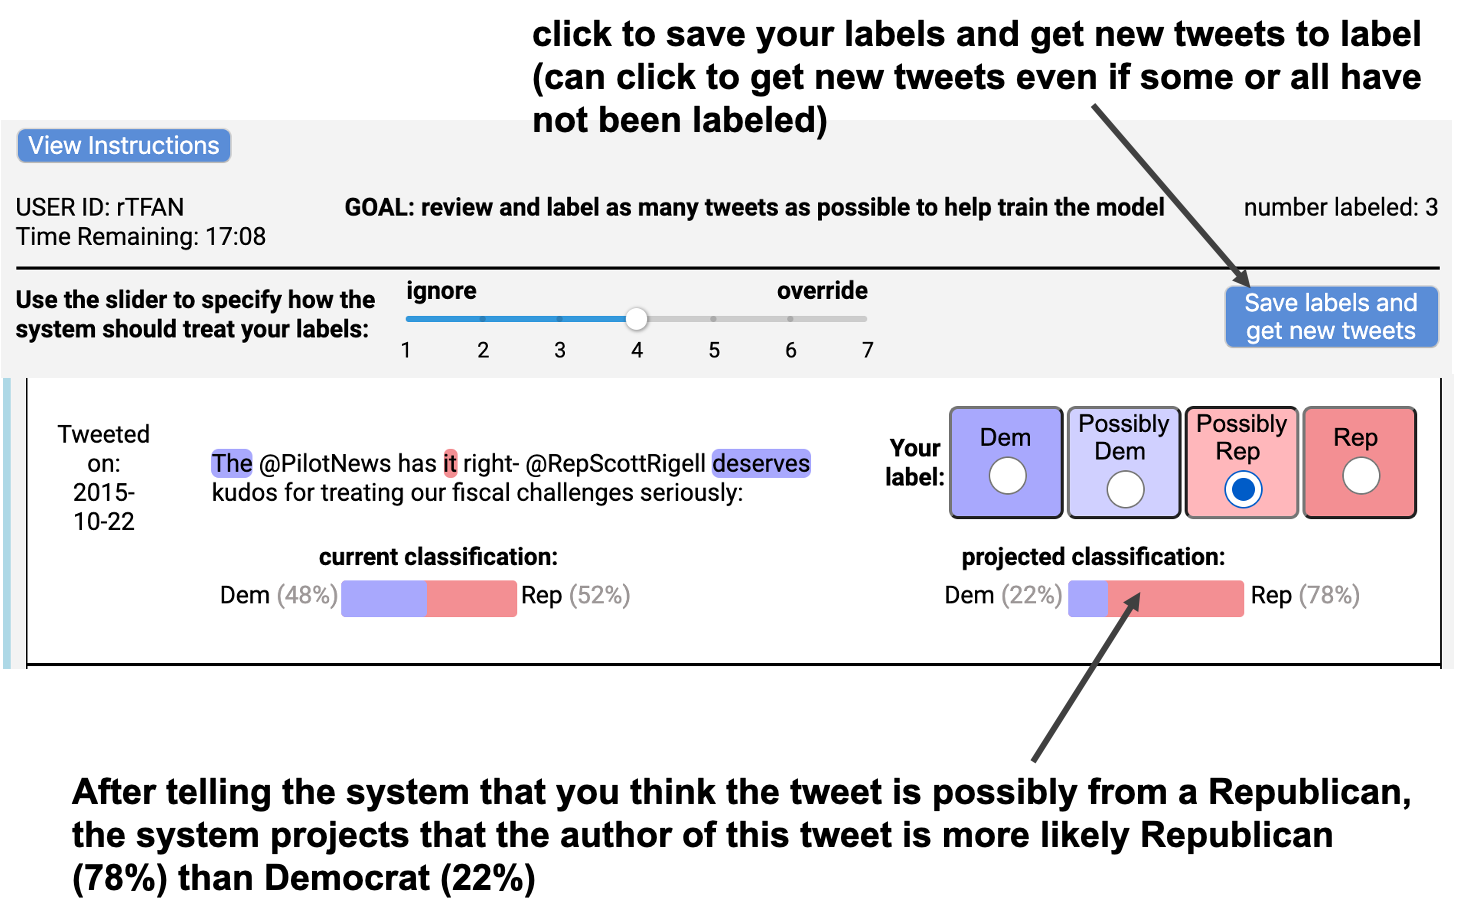
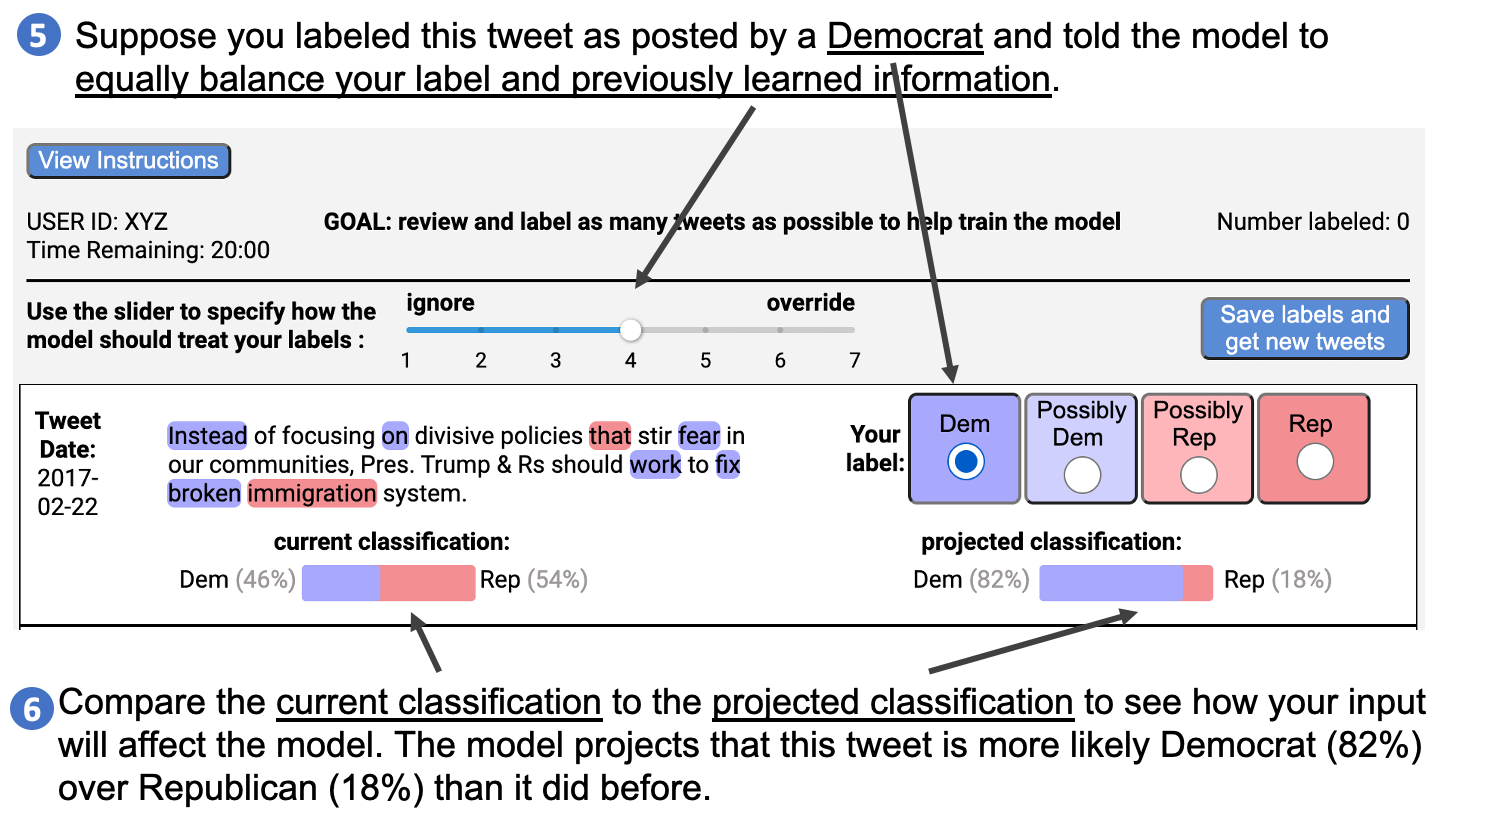
updated instructions

Changed region(s): [[0.0, 0.0, 0.9836, 0.994], [0.9221, 0.6928, 0.9529, 0.753]]

diff --git a/teaming.html b/teaming.html
@@ -28,7 +28,7 @@
         <div>
 
           <span id="timer-box" class="time-remaining" title="task time remaining">
-            Time Remaining: 20:00<!--{{ prettyTime }}-->
+            Time Remaining: {{ prettyTime }}
           </span>
           <!--<span class="right inline">number improved: {{ correctDocumentDelta }}</span>-->
 
@@ -199,8 +199,9 @@
             </span>
             <!-- REFRESH CONFIRMATION MODAL -->
             <span v-if="refreshed && !timeWarning && !finished">
-              The model incorporated your provided labels (if any) as you told it to using the slider and predicted labels for five new tweets. 
-              Don't forget that you can adjust how the model treats your labels using the adherence slider.
+              <div>The model incorporated your provided labels (if any) as you told it to using the slider and predicted labels for five new tweets. </div>
+              <br />
+              <div>Don't forget that you can adjust how the model treats your labels using the adherence slider.</div>
             </span>
             <!-- TASK FINISHED MODAL -->
             <span v-if="finished">
@@ -273,7 +274,6 @@
             <!-- INSTRUCTIONS (2) MODAL -->
             <span v-if="!timeWarning && modalState == 2 && finishedSurvey && !finished && !refreshed">
               <div style="margin-bottom: 10px;">The next few screens demonstrate how you will complete the task.</div> 
-
               <div >
                 <img v-if="inputUncertainty" class="tool-image" src="/static/images/tool-intro-uncertainty-1.png" />
                 <img v-if="!inputUncertainty"  class="tool-image" src="/static/images/tool-intro-1.png" />
@@ -283,7 +283,6 @@
 
             <span v-if="!timeWarning && modalState == 3 && finishedSurvey && !finished && !refreshed">
            <!--   <div style="margin-bottom: 10px;">You can label the tweets and adjust the adherence slider.</div> -->
-
               <div >
                 <img v-if="inputUncertainty"   class="tool-image" src="/static/images/tool-intro-uncertainty-2.png" />
                 <img v-if="!inputUncertainty"  class="tool-image" src="/static/images/tool-intro-2.png" />
@@ -292,8 +291,6 @@
             </span>
             <span v-if="!timeWarning && modalState == 4 && finishedSurvey && !finished && !refreshed">
            <!--   <div style="margin-bottom: 10px;">When you specify labels or adjust the slider, the model will show how it will update its prediction.</div> -->
-
-
               <div >
                 <img v-if="inputUncertainty"  class="tool-image" src="/static/images/tool-intro-uncertainty-3.png" />
                 <img v-if="!inputUncertainty"   class="tool-image" src="/static/images/tool-intro-3.png" />
@@ -303,6 +300,26 @@
            <!--   <div style="margin-top: 10px;">At any point, save your labels to update the model and get a new set of tweets to review.</div>  -->
 
               </span>
+
+              <span v-if="!timeWarning && modalState == 5 && finishedSurvey && !finished && !refreshed">
+                   <div >
+                     <img v-if="inputUncertainty"  class="tool-image" src="/static/images/tool-intro-uncertainty-4.png" />
+                     <img v-if="!inputUncertainty"   class="tool-image" src="/static/images/tool-intro-4.png" />
+     
+                   </div>
+     
+     
+                   </span>
+
+                   <span v-if="!timeWarning && modalState == 6 && finishedSurvey && !finished && !refreshed">
+                       <div >
+                         <img v-if="inputUncertainty"  class="tool-image" src="/static/images/tool-intro-uncertainty-5.png" />
+                         <img v-if="!inputUncertainty"   class="tool-image" src="/static/images/tool-intro-5.png" />
+         
+                       </div>
+         
+         
+                       </span>
         <!--      <div>
                 During the task:
                 <ul>
@@ -341,7 +358,7 @@
 
             </span>
             <!-- FINAL INSTRUCTIONS MODAL -->
-            <span v-if="!timeWarning && modalState == 5 && finishedSurvey && !finished && !refreshed">
+            <span v-if="!timeWarning && modalState == 7 && finishedSurvey && !finished && !refreshed">
               <div>
                 Remember, your goal is to review and correctly label as many tweets as possible to help train the model to accurately distinguish Republican and Democrat tweets. You will have 20 minutes for this task. 
               <br/>
@@ -358,7 +375,7 @@
               continue to task
             </button>
             <button class="modal-button"
-              v-if="!timeWarning && (modalState == 0 || modalState == 1 || modalState == 2 || modalState == 3 || modalState == 4) && finishedSurvey && !finished && !refreshed"
+              v-if="!timeWarning && (modalState == 0 || modalState == 1 || modalState == 2 || modalState == 3 || modalState == 4 || modalState == 5 || modalState == 6) && finishedSurvey && !finished && !refreshed"
               v-on:click="modalState += 1;">
               next
             </button>
@@ -382,11 +399,11 @@
           v-on:click="modalState = 5;">
           next
         </button> -->
-            <button class="modal-button" v-if="!timeWarning && !started && modalState == 5 && !finished && !refreshed"
+            <button class="modal-button" v-if="!timeWarning && !started && modalState == 7 && !finished && !refreshed"
               v-on:click="startTask()">
               start task
             </button>
-            <button class="modal-button" v-if="!timeWarning && started && modalState == 5 && !finished && !refreshed"
+            <button class="modal-button" v-if="!timeWarning && started && modalState == 7 && !finished && !refreshed"
               v-on:click="closeModal()">
               ok
             </button>

diff --git a/static/styles/teaming.css b/static/styles/teaming.css
@@ -40,6 +40,7 @@ body {
 }
 
 .helper {
+  display: none;
   cursor: pointer;
   border-radius: 5px;
   padding: 5px;
